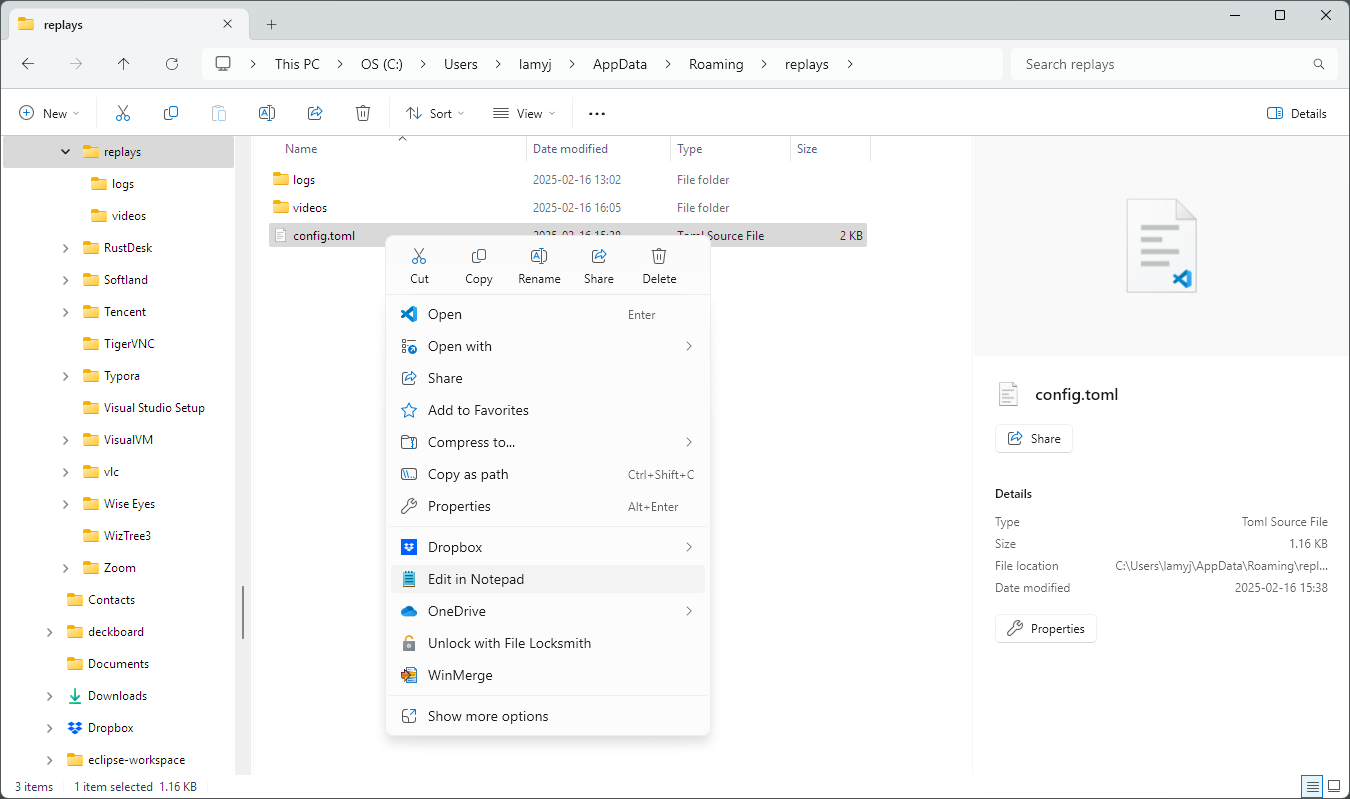
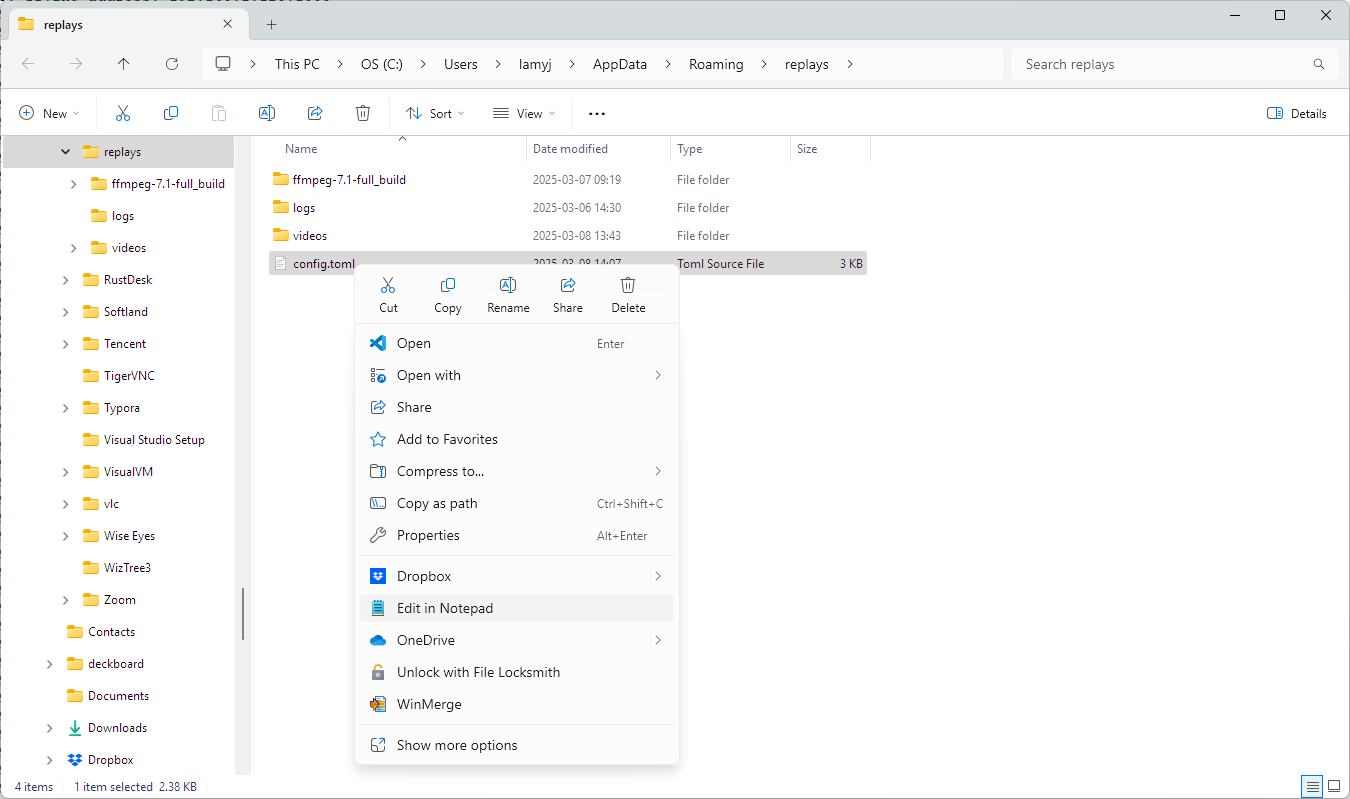
Updated Jury Replays instructions

diff --git a/docs/JuryReplays.md b/docs/JuryReplays.md
@@ -87,7 +87,12 @@ Download the program called `replays` (no `.exe`) from https://github.com/owlcms
 **Configuration**
 
 There is nothing to do if you have only one device.  The `ffmpeg` program is already installed, and when you plug in a camera  the USB adapter will be on `/dev/video0`.
-If you have more than one camera, open the configuration directory, use the Text editor, and copy the section several as needed, using `/dev/video2` and so on for the additional cameras.  Cameras are **even-numbered** (0, 2, 4, etc.)
+
+If you have more than one camera, open the configuration directory, use the Text editor, and create additional sections `[linux2]` `[linux3]` etc. as needed. 
+
+- Cameras are **even-numbered** (0, 2, 4, etc.). 
+
+- Make sure that `enabled = true` for the cameras you use and `enabled = false` for those you don't.
 
 ### Windows : Configuration of the program
 
@@ -106,33 +111,23 @@ You need to be connected to the internet when you first use the program.  The re
 
 Once ffmpeg is installed, you need to configure your cameras.   For this, we need to list the camera names as Windows detected them.
 
-- Start the replays program and use the `File` menu to `Open the application files` 
-- Open the directory that starts with `ffmpeg` and then go to the `bin` subdirectory. 
-- Right-click in a blank area of the window and select the option to open a terminal or command window.
+- Go to the `Help` menu and select `List Cameras`.  This will call ffmpeg and obtain the list of available cameras.
 
-Type the following command:
+For our example, we will configure a camera called `Logitech Webcam C930e`
 
-```
-.\ffmpeg.exe -list_devices true -f dshow -i dummy -hide_banner
-```
+- Go back to the applications directory.
 
-You will then get an output similar to this one, listing all your devices
-![list_dshow](nimg/4100replays/list_dshow.png)
 
-For our example, we will configure the camera called `Logitech Webcam C930e`
+- Find the `config.toml` file, that can be edited with Notepad
 
-Go back to the applications directory.
+- ![editToml](nimg/4100replays/editToml.png)
 
-Find the `config.toml` file, that can be edited with Notepad
-![editToml](nimg/4100replays/editToml.png)
+- Then edit the cameras to have exactly the name as in the ffmpeg output.   Locate the `[windows]` section.
 
-Then edit the cameras to have exactly the name as in the ffmpeg output.   Locate the `[windows]` section.
-
-> Follow the carefully instructions for formatting -- include `video=` before the name, and enclose both inside `'` single quotes'
 
 ![notepad](nimg/4100replays/notepad.png)
 
-If you have more than one camera, remove the `# ` in front of the `[windows2]` section and create more sections `[windows3]` if needed.
+If you have more than one camera,  add additional sections`[windows2]` `[windows3]`  etc.  Make sure that `enabled = true` for the cameras you use and `enabled = false` for those you don't.
 
 Normally you don't need to change the other parameters.
 

diff --git a/src/main/markdown/ReleaseNotes.md b/src/main/markdown/ReleaseNotes.md
@@ -1,13 +1,14 @@
 
 
 ### ⚠⚠⚠ OWLCMS INSTALLATION PROCEDURE⚠⚠⚠
-**Since version 55, the [OWLCMS Control Panel](https://owlcms.github.io/owlcms4-prerelease/#/LocalControlPanel.md) is used to install and run OWLCMS. See the [Control Panel Installation Instructions](https://owlcms.github.io/owlcms4-prerelease/#/LocalDownloads.md) for details.**
+**Since version 55, the [OWLCMS Control Panel](https://owlcms.github.io/owlcms4-prerelease/#/LocalControlPanel.md) is the normal way to install and run OWLCMS. See the [Control Panel Installation Instructions](https://owlcms.github.io/owlcms4-prerelease/#/LocalDownloads.md) for details.**
 
 <br><br>
 
 **Change Log**
 
-- 56.0.1: Added manual installation instructions back, updated Jury Replays instructions.
+- 56.0.1: Updated Jury Replays instructions.
+- 56.0.1: Added back manual setup instructions using java and the .zip file instead of the control panel
 - 56.0.0: Stable Release
 
 **New In Release 56**
